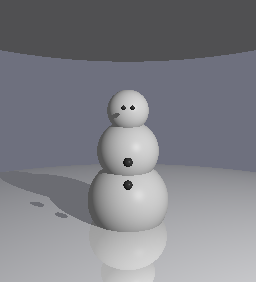
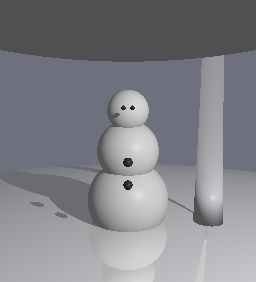
started icicles, they currently look like cyllinders :(

Changed region(s): [[0.7188, 0.1986, 0.875, 0.8227], [0.6562, 0.7092, 0.7188, 0.7376]]

diff --git a/ray.py b/ray.py
@@ -127,20 +127,18 @@ class Sphere:
 
 class Cone:
 
-    def __init__(self, center, c, z_0, material):
-        """Create a cone with the given center (x_0 and y_0) and values for z_0 and c
+    def __init__(self, center, c, material):
+        """Create a cone with the given center (x_0, y_0, z_0) and value for c
 
         equation used: ((x-x_0)^2 + (y-y_0)^2)/c^2 = (z - z_0)^2
 
         Parameters:
           center : (3,) -- a 3D point specifying the sphere's center
           c : float -- a Python float specifying the value of c in the equation
-          z_0 : float -- a Python float specifying the value of z_0 in the equation
           material : Material -- the material of the surface
         """
         self.center = center
-        self.radius = c
-        self.z_0 = z_0
+        self.c = c
         self.material = material
 
     def intersect(self, ray):
@@ -154,11 +152,12 @@ class Cone:
 
         # calculate coefficients for quadratic equation representing intersection
 
-        a = ray.direction[0]**2 + ray.direction[1]**2 + self.c**2 * ray.direction[2]**2
-        b = 2*ray.direction[0]*(ray.origin[0]-self.center[0]) + 2*ray.direction[1]*(ray.origin[1]-self.center[1]) 
-        - c**2 * ray.direction[2]*ray.origin[2] + 2*c**2*self.z_0*ray.direction[2]
-        c = (ray.origin[0]-self.center[0])**2 + (ray.origin[1]-self.center[1])**2 - c**2*ray.origin[2]**2 
-        + 2*c**2*self.z_0*ray.origin[2] - c**2*self.z_0**2
+        
+
+        a = ray.direction[0]**2 + ray.direction[2]**2 - self.c**2 * ray.direction[1]**2
+        b = 2*ray.direction[0]*(ray.origin[0]-self.center[0]) + 2*ray.direction[2]*(ray.origin[2]-self.center[2]) 
+        - self.c**2 * 2 * ray.direction[1] * (ray.origin[2]-self.center[1])
+        c = (ray.origin[0]-self.center[0])**2 + (ray.origin[2]-self.center[2])**2 - self.c**2*(ray.origin[1]-self.center[1])**2
 
         # solve quadratic formula for t
         if b**2-4*a*c < 0:

diff --git a/C2.py b/C2.py
@@ -26,6 +26,9 @@ scene = Scene([
     # coals (body)
     Sphere(vec([0, 1.5, 2]), 0.1, coal_black),
     Sphere(vec([0, 1, 2]), 0.1, coal_black),
+
+    # icicles
+    Cone(vec([2, 0, 0]), .05, cieling_gray)
 ],
     bg_color=vec([0.155, 0.163, 0.21]))
 
